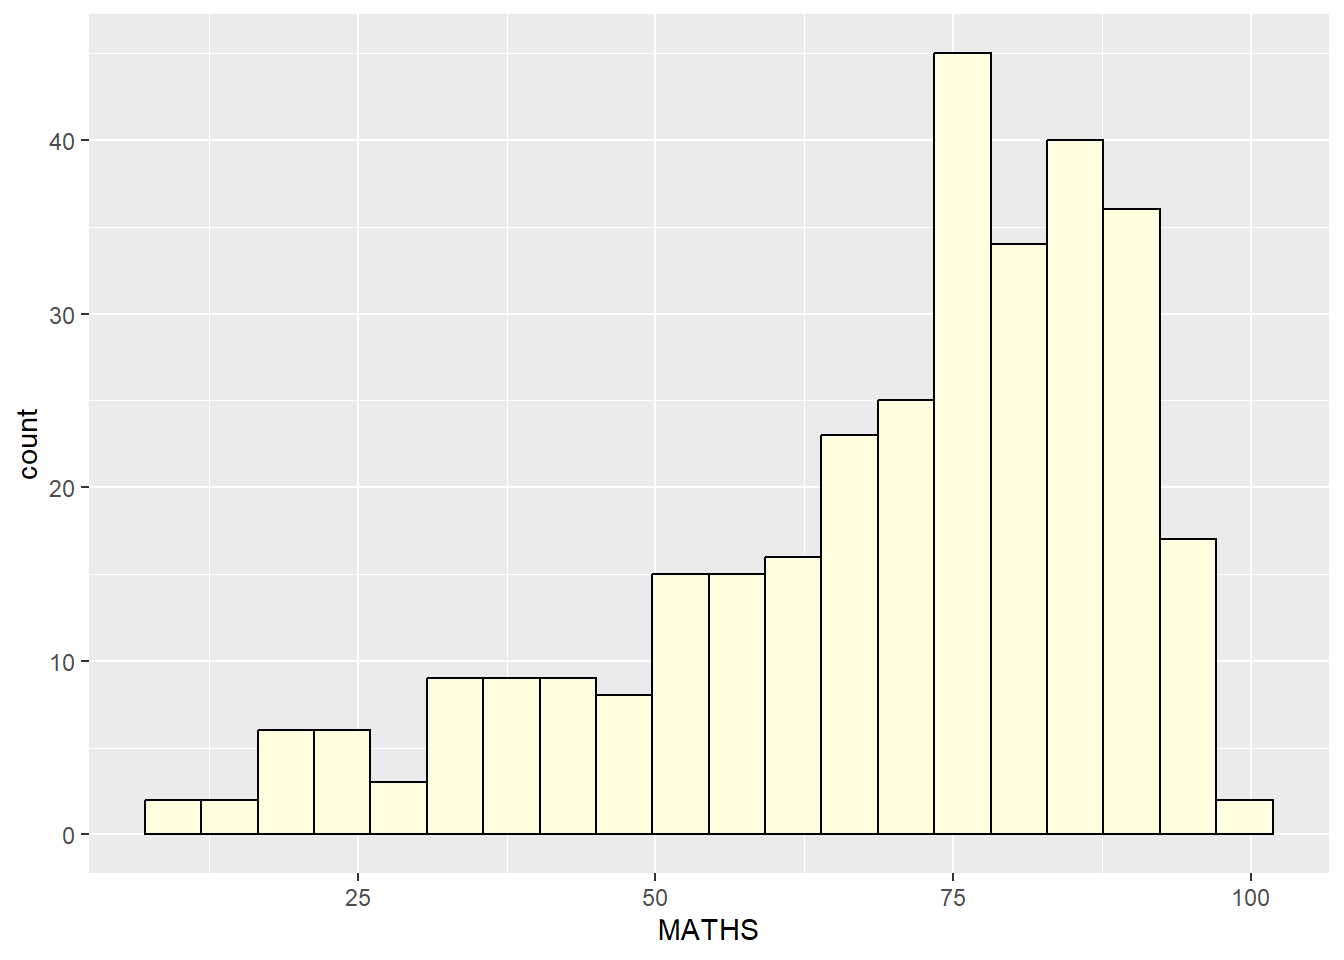
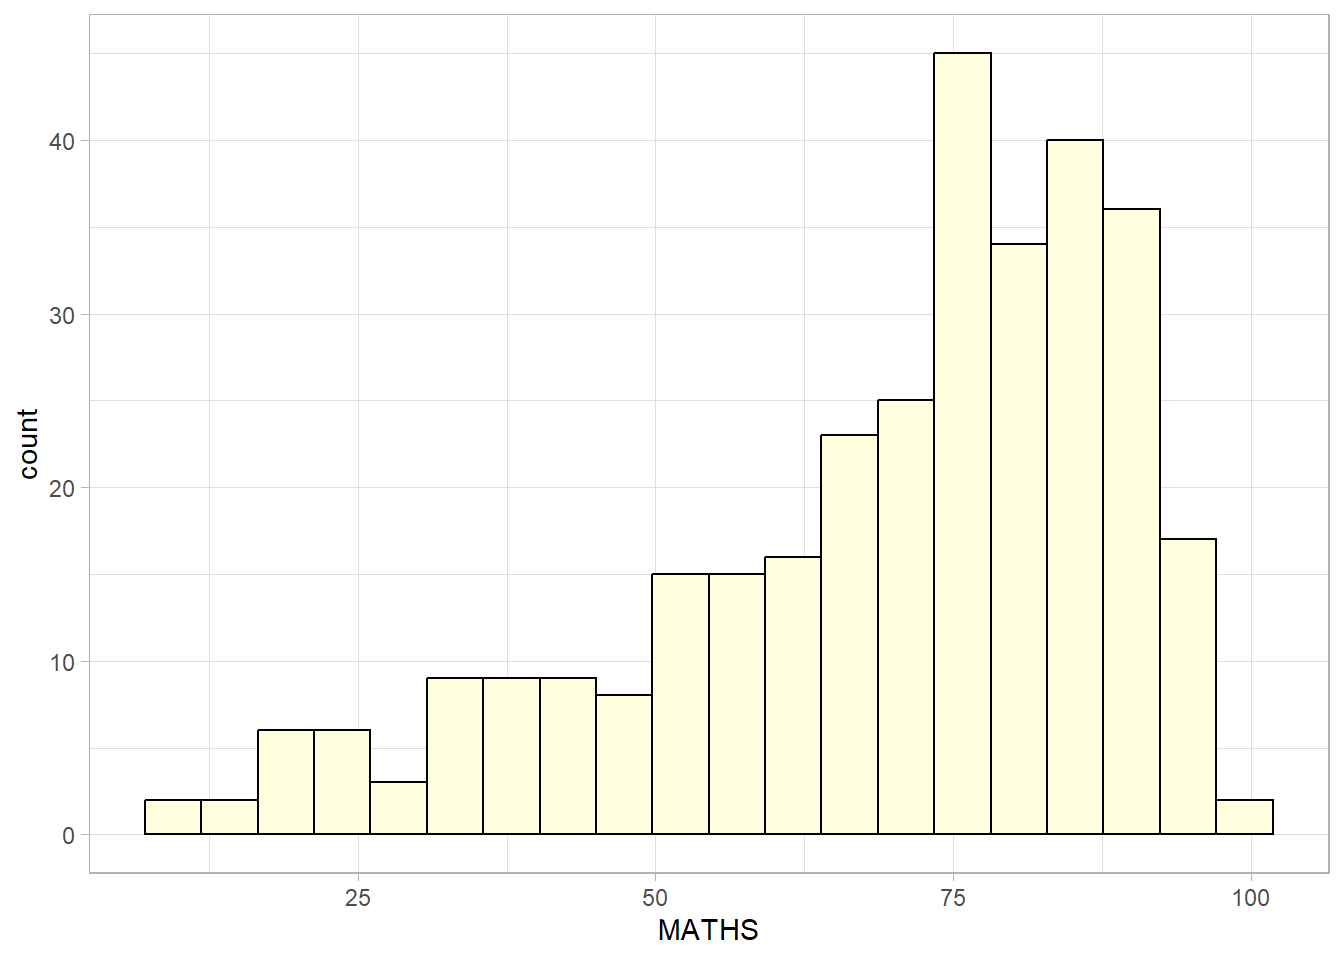
fin2

diff --git a/_site/Hands-on_Ex/Hands-on_Ex01/Hands-on_EX01.html b/_site/Hands-on_Ex/Hands-on_Ex01/Hands-on_EX01.html
@@ -251,7 +251,8 @@ dbl (3): ENGLISH, MATHS, SCIENCE
 <div class="cell">
 <div class="sourceCode cell-code" id="cb5"><pre class="sourceCode r code-with-copy"><code class="sourceCode r"><span id="cb5-1"><a href="#cb5-1" aria-hidden="true" tabindex="-1"></a><span class="fu">ggplot</span>(<span class="at">data=</span>exam_data,</span>
 <span id="cb5-2"><a href="#cb5-2" aria-hidden="true" tabindex="-1"></a>       <span class="fu">aes</span>(<span class="at">x =</span> MATHS)) <span class="sc">+</span></span>
-<span id="cb5-3"><a href="#cb5-3" aria-hidden="true" tabindex="-1"></a>  <span class="fu">geom_histogram</span>()</span></code><button title="Copy to Clipboard" class="code-copy-button"><i class="bi"></i></button></pre></div>
+<span id="cb5-3"><a href="#cb5-3" aria-hidden="true" tabindex="-1"></a>  <span class="fu">geom_histogram</span>()<span class="sc">+</span></span>
+<span id="cb5-4"><a href="#cb5-4" aria-hidden="true" tabindex="-1"></a>   <span class="fu">theme_light</span>()</span></code><button title="Copy to Clipboard" class="code-copy-button"><i class="bi"></i></button></pre></div>
 <div class="cell-output cell-output-stderr">
 <pre><code>`stat_bin()` using `bins = 30`. Pick better value with `binwidth`.</code></pre>
 </div>
@@ -269,7 +270,8 @@ dbl (3): ENGLISH, MATHS, SCIENCE
 <div class="cell">
 <div class="sourceCode cell-code" id="cb7"><pre class="sourceCode r code-with-copy"><code class="sourceCode r"><span id="cb7-1"><a href="#cb7-1" aria-hidden="true" tabindex="-1"></a><span class="fu">ggplot</span>(<span class="at">data=</span>exam_data, <span class="fu">aes</span>(<span class="at">x=</span> MATHS)) <span class="sc">+</span> <span class="fu">geom_histogram</span>(<span class="at">bins=</span><span class="dv">20</span>,</span>
 <span id="cb7-2"><a href="#cb7-2" aria-hidden="true" tabindex="-1"></a><span class="at">color=</span><span class="st">"black"</span>,</span>
-<span id="cb7-3"><a href="#cb7-3" aria-hidden="true" tabindex="-1"></a><span class="at">fill=</span><span class="st">"lightyellow"</span>)</span></code><button title="Copy to Clipboard" class="code-copy-button"><i class="bi"></i></button></pre></div>
+<span id="cb7-3"><a href="#cb7-3" aria-hidden="true" tabindex="-1"></a><span class="at">fill=</span><span class="st">"lightyellow"</span>)<span class="sc">+</span></span>
+<span id="cb7-4"><a href="#cb7-4" aria-hidden="true" tabindex="-1"></a> <span class="fu">theme_light</span>()</span></code><button title="Copy to Clipboard" class="code-copy-button"><i class="bi"></i></button></pre></div>
 <div class="cell-output-display">
 <div>
 <figure class="figure">
@@ -291,7 +293,8 @@ dbl (3): ENGLISH, MATHS, SCIENCE
 <span id="cb8-7"><a href="#cb8-7" aria-hidden="true" tabindex="-1"></a>  <span class="fu">stat_summary</span>(<span class="at">geom =</span> <span class="st">"point"</span>,       </span>
 <span id="cb8-8"><a href="#cb8-8" aria-hidden="true" tabindex="-1"></a>               <span class="at">fun =</span> <span class="st">"mean"</span>,         </span>
 <span id="cb8-9"><a href="#cb8-9" aria-hidden="true" tabindex="-1"></a>               <span class="at">colour =</span><span class="st">"pink"</span>,        </span>
-<span id="cb8-10"><a href="#cb8-10" aria-hidden="true" tabindex="-1"></a>               <span class="at">size=</span><span class="dv">4</span>)  </span></code><button title="Copy to Clipboard" class="code-copy-button"><i class="bi"></i></button></pre></div>
+<span id="cb8-10"><a href="#cb8-10" aria-hidden="true" tabindex="-1"></a>               <span class="at">size=</span><span class="dv">4</span>)  <span class="sc">+</span></span>
+<span id="cb8-11"><a href="#cb8-11" aria-hidden="true" tabindex="-1"></a>   <span class="fu">theme_light</span>()</span></code><button title="Copy to Clipboard" class="code-copy-button"><i class="bi"></i></button></pre></div>
 <div class="cell-output-display">
 <div>
 <figure class="figure">
@@ -326,7 +329,8 @@ dbl (3): ENGLISH, MATHS, SCIENCE
 <span id="cb10-4"><a href="#cb10-4" aria-hidden="true" tabindex="-1"></a>  <span class="fu">geom_smooth</span>(<span class="at">method=</span>lm,</span>
 <span id="cb10-5"><a href="#cb10-5" aria-hidden="true" tabindex="-1"></a>              <span class="at">linewidth=</span><span class="fl">0.5</span>) <span class="sc">+</span></span>
 <span id="cb10-6"><a href="#cb10-6" aria-hidden="true" tabindex="-1"></a>  <span class="fu">coord_cartesian</span>(<span class="at">xlim=</span><span class="fu">c</span>(<span class="dv">0</span>,<span class="dv">100</span>),</span>
-<span id="cb10-7"><a href="#cb10-7" aria-hidden="true" tabindex="-1"></a>                  <span class="at">ylim=</span><span class="fu">c</span>(<span class="dv">0</span>,<span class="dv">100</span>))</span></code><button title="Copy to Clipboard" class="code-copy-button"><i class="bi"></i></button></pre></div>
+<span id="cb10-7"><a href="#cb10-7" aria-hidden="true" tabindex="-1"></a>                  <span class="at">ylim=</span><span class="fu">c</span>(<span class="dv">0</span>,<span class="dv">100</span>))<span class="sc">+</span></span>
+<span id="cb10-8"><a href="#cb10-8" aria-hidden="true" tabindex="-1"></a>   <span class="fu">theme_light</span>()</span></code><button title="Copy to Clipboard" class="code-copy-button"><i class="bi"></i></button></pre></div>
 <div class="cell-output cell-output-stderr">
 <pre><code>`geom_smooth()` using formula = 'y ~ x'</code></pre>
 </div>

diff --git a/_site/index.html b/_site/index.html
@@ -145,8 +145,9 @@ ul.task-list li input[type="checkbox"] {
 </header>
 
 
-<p>This is <strong>ISSS608 Visual Analytics and Application</strong></p>
-<p><strong>Here is my coursework</strong> preparation</p>
+<p>My coursework preparation for</p>
+<p><strong>ISSS608 Visual Analytics and Application</strong></p>
+<p>Good Morning🌞 Good Afternoon☕ Good Evening🌃</p>
 
 
 
